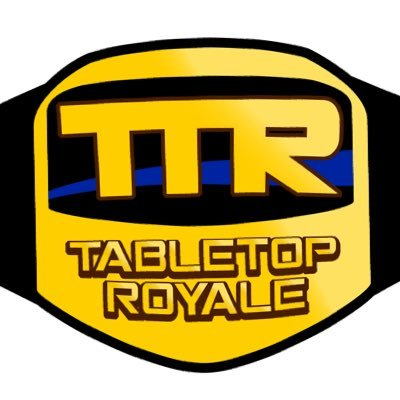
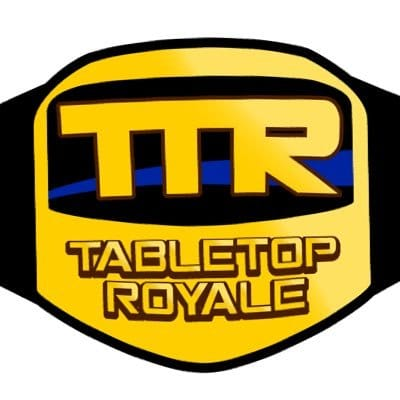
Optimize images

diff --git a/index.html b/index.html
@@ -28,7 +28,7 @@
         <tr>
           <td data-start-time="11:00" data-end-time="13:00"></td>
           <td>
-            <img src="kfpt.png" class="logo"/>
+            <img src="kfpt.jpg" class="logo"/>
             KeyForge Portugal
           </td>
           <td>In-person Sealed Adaptive with decks giveaway</td>
